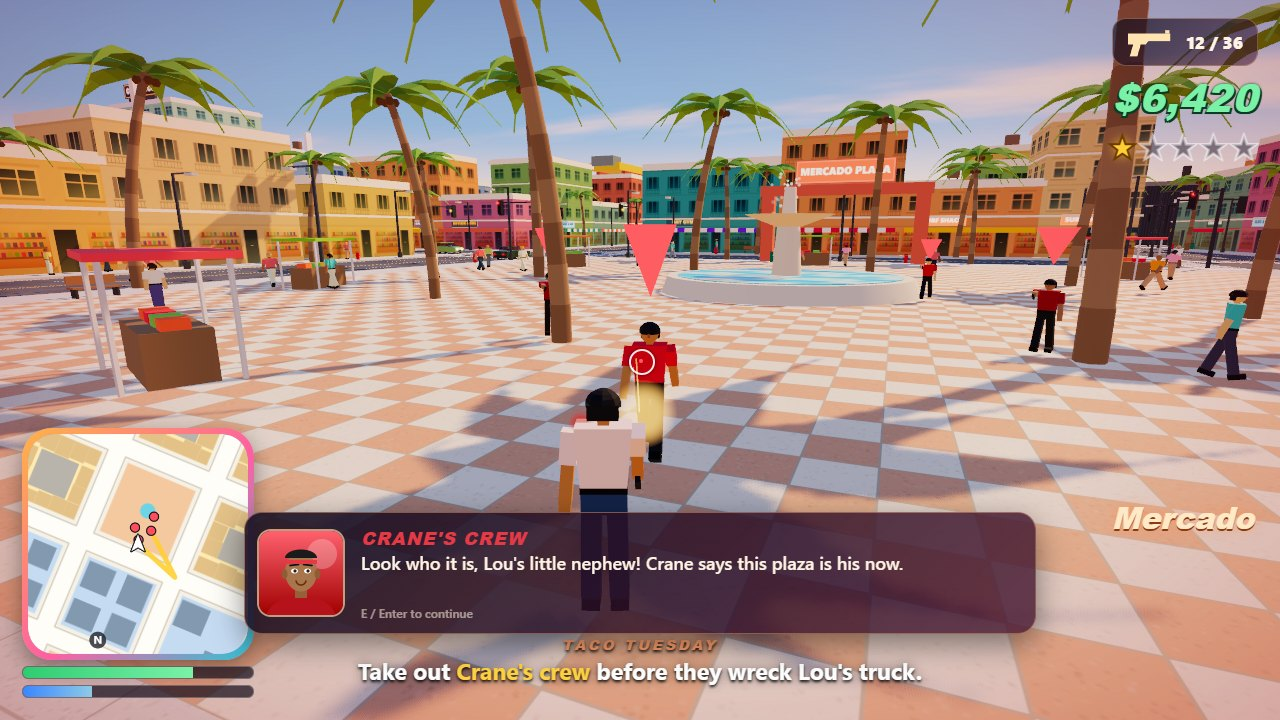
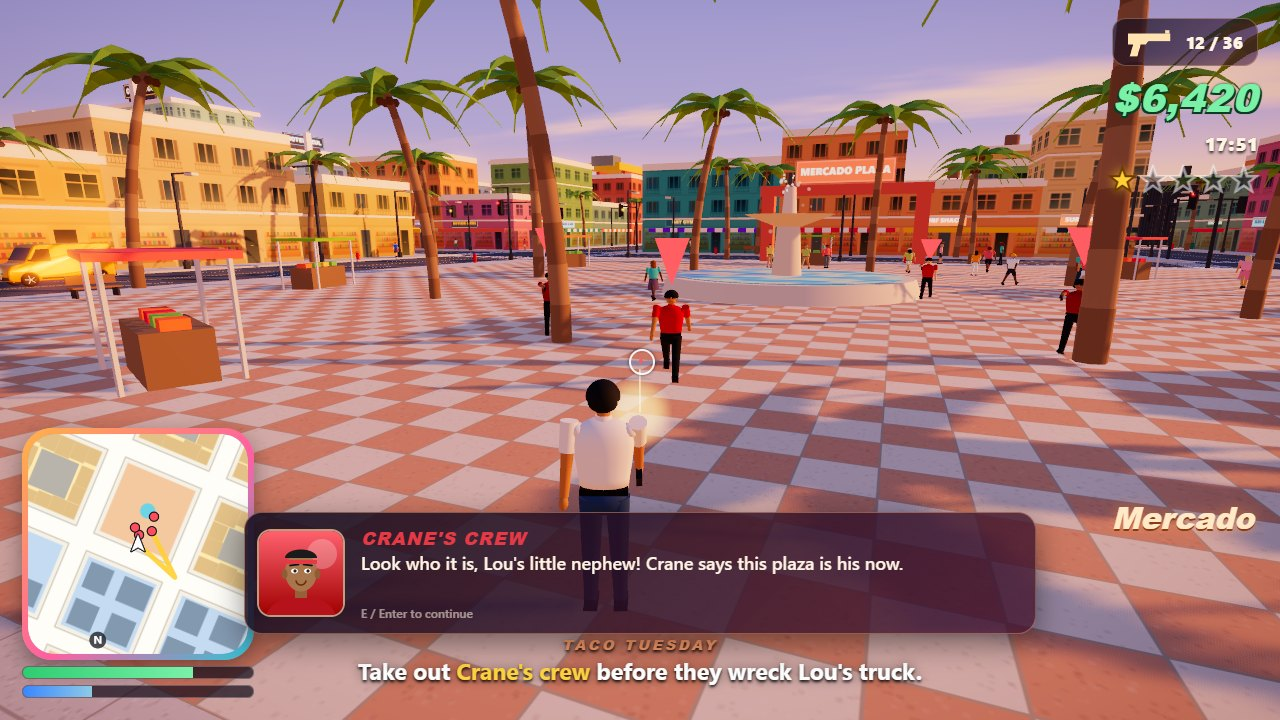
Retake screenshots: sunset chase with helicopter, burning wreck and full HUD; golden-hour plaza fight; night race down Seabreeze Boulevard; dusk title. Shot scenes settle the camera before playing so effects run; busier streets; README describes the new features

diff --git a/game/src/shots/shotDirector.js b/game/src/shots/shotDirector.js
@@ -64,18 +64,21 @@ function coverScene(game) {
     unit.vehicle.vx = -22;
   }
   // Oncoming traffic pulls over on the eastbound side; a car that lost a fight burns at the curb.
-  const paints = ['#f1faee', '#2a9d8f', '#ffd166', '#3a86ff'];
-  for (const [ahead, lane] of [[-52, 1], [-85, 0], [34, 1], [62, 0]]) {
+  const paints = ['#f1faee', '#2a9d8f', '#ffd166'];
+  for (const [ahead, lane] of [[-16, 1], [44, 0], [78, 1]]) {
     const vehicle = game.population.spawnTraffic({ x: car.x, z: car.z }, 0, 1e9);
     if (!vehicle) continue;
     vehicle.paint.set(paints.pop());
     vehicle.ai.place(network.nodeAt(5, 4).id, network.nodeAt(6, 4).id, lane, Math.min(0.92, Math.max(0.05, (car.x + ahead - 91) / 58)));
   }
-  const wreck = game.vehicles.spawn('sedan', car.x + 30, 8.6, 0.5, { role: 'parked', paint: '#5a5f66' });
+  // A car that lost a fight with the cruisers burns at the curb, right where the chase passes.
+  const wreck = game.vehicles.spawn('sedan', car.x - 30, 6.4, 0.55, { role: 'mission', paint: '#5a5f66' });
   wreck.damage(wreck.health * 0.885);
   for (let index = 0; index < 22; index += 1) game.population.spawnWalker({ x: car.x - 8, z: car.z }, 0, 40);
   game.followCamera.view = 0;
   game.followCamera.lookBack = true;
+  // The camera has to be on the scene while it plays: effects only run near the camera.
+  settleCamera(game);
   game.simulate(1.5);
   // The helicopter hangs low over the street behind the cruisers, its beam on Kai.
   game.helicopter.placeAt(car.x + 42, car.z - 5, car.x + 1, car.z, 17);
@@ -209,6 +212,7 @@ function raceScene(game) {
   for (let index = 0; index < 18; index += 1) game.population.spawnWalker({ x: 236, z: -190 }, 0, 45);
   game.followCamera.view = 0;
   game.followCamera.lookBack = false;
+  settleCamera(game);
   game.simulate(1.6);
 }
 

diff --git a/game/src/core/config.js b/game/src/core/config.js
@@ -29,9 +29,9 @@ export const WORLD_BOUNDS = { minX: -345, maxX: 405, minZ: -345, maxZ: 296 };
 export const SUN_DIRECTION = { x: -0.4, y: 0.66, z: 0.64 };
 
 export const POPULATION = {
-  traffic: 26,
-  pedestrians: 46,
-  parked: 18,
+  traffic: 30,
+  pedestrians: 58,
+  parked: 20,
   spawnMin: 55,
   spawnMax: 170,
   despawn: 210,

diff --git a/README.md b/README.md
@@ -4,7 +4,7 @@
 [![rank](https://make.fun/badge/gta6-01/ffadsfvd/gta6-open-world/rank.svg)](https://make.fun/bounty/gta6-01/leaderboard?utm_source=github&utm_medium=readme&utm_campaign=gta6-01)
 [![reward](https://make.fun/badge/gta6-01/ffadsfvd/gta6-open-world/reward.svg)](https://make.fun/bounty/gta6-01?utm_source=github&utm_medium=readme&utm_campaign=gta6-01)
 
-**Ondaluz Undercurrent** is an original open-world crime game for desktop Chrome, written with three.js and plain ES modules (no build step, no network). Kai Moreno comes home to Ondaluz, a sun-soaked Atlantic coast city of art-deco hotels, glass towers, a market plaza, the Ironwharf docks and Sunwheel Beach, and takes back the docks from Silas Crane over seven story missions. Steal and drive any car with drift-friendly handling, outrun a 1–5 star wanted level with pursuing cruisers, officers on foot and roadblocks, fight with fists, a pistol or an SMG, and fill the days with street races, Sunny Cab fares, Pelican Express deliveries, the Bayside Arms shop and twelve hidden sunshells. The HUD has a rotating minimap with GPS route and blips, wanted stars, money, health and armour, objectives and a speedometer, plus a full-screen map, pause menu, settings, stats, saving to localStorage, and music, radio stations, engine, sirens and effects synthesized with the Web Audio API.
+**Ondaluz Undercurrent** is an original open-world crime game for desktop Chrome, written with three.js and plain ES modules (no build step, no network). Kai Moreno comes home to Ondaluz, an Atlantic coast city of streamline hotels, round glass towers, a market plaza, the Ironwharf docks, a marina and Sunwheel Beach, and takes back the docks from Silas Crane over seven story missions. A full day passes in 24 minutes: golden-hour sunsets, starry nights with lit windows, street lamps and neon. Steal and drive any of nine rounded, detailed car models; outrun a 1–5 star wanted level with cruisers that search where they last saw you, officers on foot, roadblocks and a searchlight helicopter; fight with fists, pistol, shotgun, SMG or marksman rifle, dive-roll out of the line of fire, and fill the days with street races, Sunny Cab fares, Pelican Express deliveries, the Bayside Arms shop and twelve hidden sunshells. The HUD has a rotating minimap with GPS route and blips, wanted stars, money, clock, health and armour, objectives and a speedometer, plus a full-screen map, pause menu, settings, stats, saving to localStorage, and music, radio stations, engine, sirens and effects synthesized with the Web Audio API.
 
 ## Run it
 
